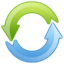
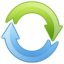
Clockwise!

Changed region(s): [[0.625, 0.0625, 1.0, 0.9375], [0.0, 0.0625, 0.375, 0.9375]]

diff --git a/src/minecraft/org/getspout/spout/gui/server/GuiFavorites.java b/src/minecraft/org/getspout/spout/gui/server/GuiFavorites.java
@@ -523,7 +523,7 @@ public class GuiFavorites extends GuiScreen {
 			GL11.glDepthMask(false);
 			GL11.glColor4f(1.0F, 1.0F, 1.0F, 1.0F);
 			GL11.glTranslatef(13, 11, 0);
-			GL11.glRotatef(-refreshAngle, 0F, 0F, 1F);
+			GL11.glRotatef(refreshAngle, 0F, 0F, 1F);
 			GL11.glTranslatef(-8, -8, 0); // moves texture into place
 			GL11.glBindTexture(GL11.GL_TEXTURE_2D, refresh.getTextureID());
 			GL11.glTexParameteri(GL11.GL_TEXTURE_2D, GL11.GL_TEXTURE_MIN_FILTER, GL11.GL_NEAREST);
